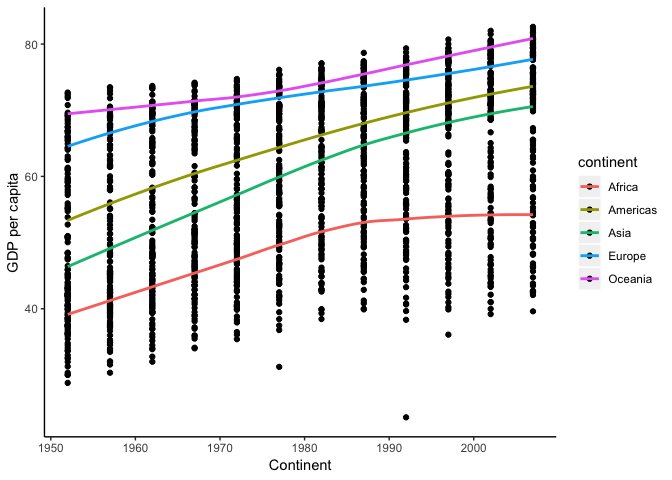
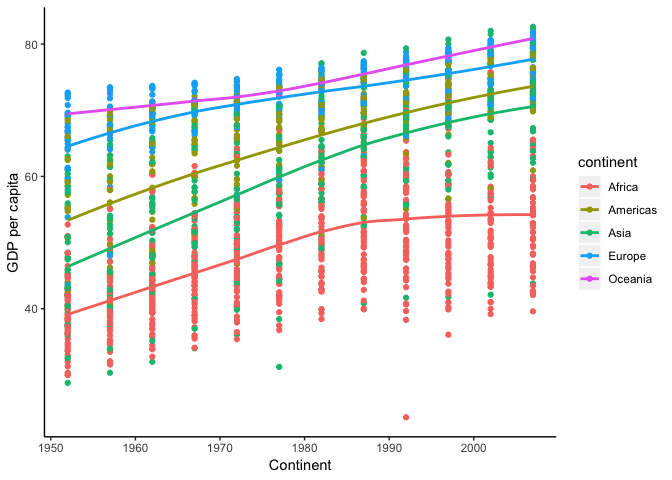
Adjusting figure and table

diff --git a/hw03-tsmith93.md b/hw03-tsmith93.md
@@ -87,7 +87,7 @@ gapminder %>%
 ggplot(aes(year, lifeExp)) +
   xlab("Continent") +
   ylab("GDP per capita") +
-  geom_point(aes(fill = continent)) +
+  geom_point(aes(colour = continent)) +
    geom_smooth(se = FALSE, aes(colour = continent)) +
   theme(panel.grid.major = element_blank(), panel.grid.minor = element_blank(), panel.background = element_blank(),
   axis.line = element_line(colour = "black"))
@@ -96,3 +96,35 @@ ggplot(aes(year, lifeExp)) +
     ## `geom_smooth()` using method = 'loess' and formula 'y ~ x'
 
 ![](hw03-tsmith93_files/figure-markdown_github/unnamed-chunk-5-1.png)
+
+``` r
+longdata <- gapminder %>% 
+  filter(year == "1952" | year == "2007") %>% 
+  select(continent, year, lifeExp) %>% 
+  group_by(continent, year) %>% 
+  summarize(Life = mean(lifeExp))
+
+
+
+widedata <- spread(longdata, year, Life)
+
+colnames(widedata) <- c("continent", "first","last")
+  
+
+widedata %>% 
+  mutate(difference = last - first) %>% 
+  mutate_each(funs(round(.,2))) %>% 
+  kable(col.names = c("Continent", "Life expectancy in 1952", "Life expectancy in 2007", "Change in life expectancy"))
+```
+
+    ## `mutate_each()` is deprecated.
+    ## Use `mutate_all()`, `mutate_at()` or `mutate_if()` instead.
+    ## To map `funs` over all variables, use `mutate_all()`
+
+| Continent |  Life expectancy in 1952|  Life expectancy in 2007|  Change in life expectancy|
+|:----------|------------------------:|------------------------:|--------------------------:|
+| Africa    |                    39.14|                    54.81|                      15.67|
+| Americas  |                    53.28|                    73.61|                      20.33|
+| Asia      |                    46.31|                    70.73|                      24.41|
+| Europe    |                    64.41|                    77.65|                      13.24|
+| Oceania   |                    69.25|                    80.72|                      11.46|
